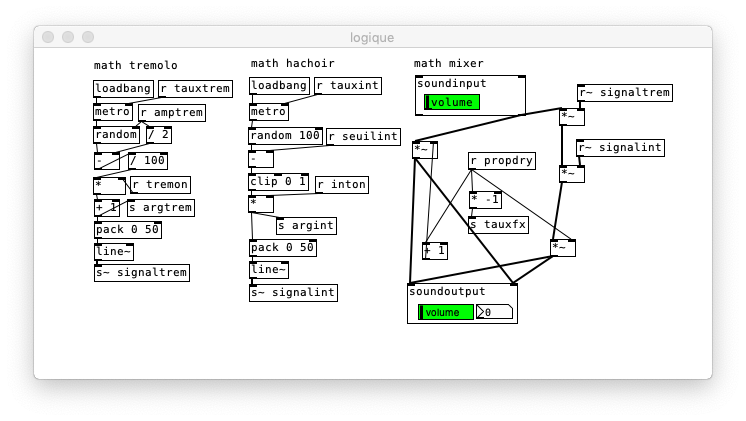
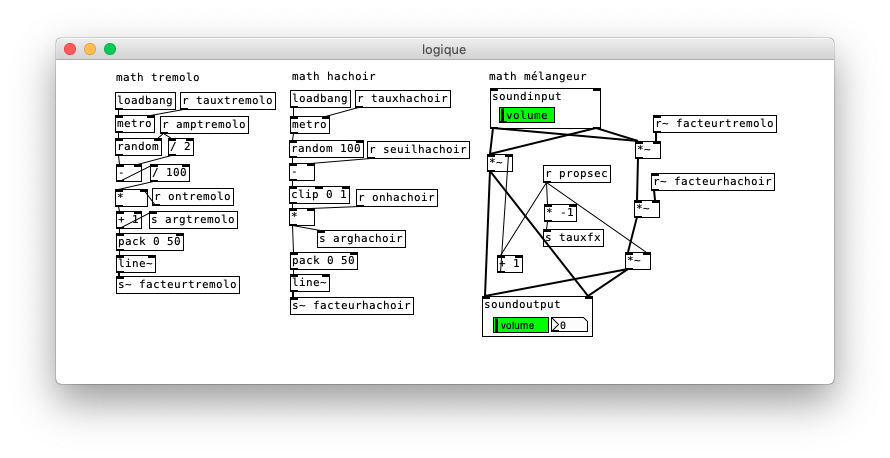
Première version
Avec documentation.

Changed region(s): [[0.0308, 0.0618, 0.9558, 0.9264]]

diff --git a/README.md b/README.md
@@ -1,2 +1,28 @@
-# nmodrizaer
-Tremolo et hachoir aléatoires
+## nmodrizaer
+
+Ce _patch_ Pure Data traite un signal sonore (originalement pour la guitare) en lui appliquant deux effets de volume : un tremolo et un hachoir. Ces effets sont modulée aléatoirement selon des paramètres réglables.
+
+### Compatibilité
+
+- Ce _patch_ n'a été testé qu'avec Pure Data pour macOS et avec PdParty pour iOS.
+
+### Entrée/Sortie
+
+- Le _patch_ additionne le signal des deux canaux de l'entrée système et émet le même signal dans les deux canaux de la sortie du système.
+
+### Modes
+
+- **Tremolo** : Applique une variation aléatoire dont l'amplitude et la fréquence de changement sont réglables.
+- **Hachoir** : Coupe le signal si la valeur aléatoire (rafraîchie à une fréquence réglable) est supérieure à un seuil réglable.
+
+### Contrôles
+
+- L'interrupteur **Tremolo** (en haut, à droite) active l'effet du tremolo aléatoire en multipliant le volume du signal par le paramètre aléatoire affiché juste à sa gauche. Ce paramètre est généré aléatoirement en fonction des réglages de gauche :
+    - l'**amplitude** est définie de 0 à 100. À 100, le paramètre du tremolo varie de 0,5 à 1,5;
+    - le (*taux** de génération d'une valeur aléatoire est réglé en millisecondes.
+
+- L'interrupteur **Hachoir** (en bas, à droite) active l'effet du hachoir en laissant passer le signal (post-tremolo, si le tremolo est activé) seulement si une valeur aléatoire (entre 0 et 100) est supérieure à un seuil réglable. L'indicateur à gauche de l'interrupteur représente le signal qui passe.
+    - le **seuil** est réglable de 0 à 100. À 100, le signal est toujours bloqué;
+    - le **taux** de génération d'une valeur aléatoire est réglé en millisecondes.
+
+- Le réglage **mélange** représente la proportion du signal allant de 0 (seulement le signal d'origine, _dry_) à 1 (seulement le signal affecté, _wet_).
